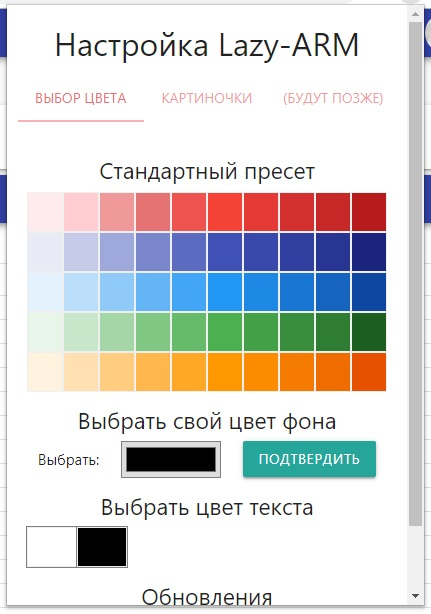
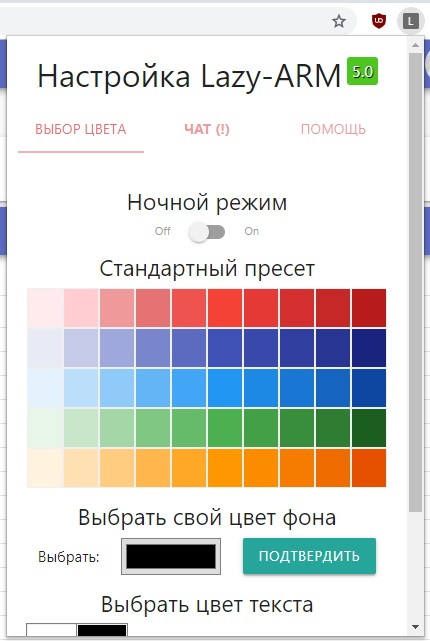
upd 5

diff --git a/popup.html b/popup.html
@@ -11,30 +11,33 @@
 
    <div id="popup-wrapper">
 
-      <h4>Настройка Lazy-ARM (v4.1)</h4>
+      <div style="display: flex; align-items: center; justify-content: center;">
+         <h4>Настройка Lazy-ARM</h4> <span
+            style="font-size: 16px; background: #4dc71f; color: #fff; padding: 2px 5px; margin-left: 5px; border-radius: 3px; text-shadow: 1px 1px 1px black;">5.0</span>
+      </div>
 
       <div class="row">
          <div class="col s12">
             <ul class="tabs">
                <li class="tab col s3"><a href="#test1" class="active">Выбор цвета</a></li>
-               <li class="tab col s3"><a href="#test2">Changelog</a></li>
+               <li class="tab col s3"><a href="#test2"><b>Чат (!)</b></a></li>
                <li class="tab col s3"><a href="#test3">Помощь</a></li>
             </ul>
          </div>
 
          <div id="test1" class="col s12" style="padding: 20px;">
-            
+
             <h5>Ночной режим</h5>
             <div class="switch" style="display: flex; justify-content: center;">
                <label>
-                 Off
-                 <input type="checkbox" id="night">
-                 <span class="lever"></span>
-                 On
+                  Off
+                  <input type="checkbox" id="night">
+                  <span class="lever"></span>
+                  On
                </label>
 
 
-             </div>
+            </div>
 
             <h5>Стандартный пресет</h5>
             <div class="theme_color_table">
@@ -113,12 +116,27 @@
             </div>
 
             <h5>Обновления</h5>
-            <a href="https://github.com/JustMonk/chrome-lazy-arm" target="_blank">github.com/JustMonk/chrome-lazy-arm</a>
+            <a href="https://github.com/JustMonk/chrome-lazy-arm"
+               target="_blank">github.com/JustMonk/chrome-lazy-arm</a>
 
          </div>
 
-         <div id="test2" class="col s12">ночной режим добавлен</div>
-         <div id="test3" class="col s12">1) Если по нажатию ничего не происходит - проверь адрес админки, он должен быть /cc-agent/, с тестовой версией /сс-agent-test/ расширение не работает</div>
+         <div id="test2" class="col s12">
+            <iframe src="https://justmonk.github.io/react-firebase-chat-widget/"
+               style="width: 100%; height: 460px; border: none;">
+               Ваш браузер не поддерживает встроенные фреймы!
+            </iframe>
+         </div>
+         <div id="test3" class="col s12" style="padding: 18px;">1) Если по нажатию ничего не происходит - проверь адрес
+            админки, он должен быть
+            /cc-agent/, с тестовой версией /сс-agent-test/ расширение не работает
+            <br>
+            2) Автообновлений нет (хром запрещает приватным расширениям обновляться), поэтому загрузить можно только руками
+            <br>
+            3) Сейчас особой пользы расширение не несет, а весь функционал аналитики рано или поздно и так добавят (ну кроме темной темы мб)
+            <br>
+            4) Последняя версия всегда доступна в репозитории <a href="https://github.com/JustMonk/chrome-lazy-arm">https://github.com/JustMonk/chrome-lazy-arm</a>
+         </div>
       </div>
 
    </div>

diff --git a/contentScript.js b/contentScript.js
@@ -140,33 +140,49 @@ chrome.runtime.onMessage.addListener(function (request, sender, sendResponse) {
 });
 
 
-//куда вставляем
+//пушим выше шапки
 let targetNode = document.getElementsByTagName('main')[0].lastChild;
+//внутрь флекс контейнера
+let infoWrapper = document.createElement('div');
+infoWrapper.id = 'info-wrapper';
+targetNode.insertAdjacentElement('afterbegin', infoWrapper);
 
-//наш контейнер "бездельников"
+//контейнер "бездельников"
 let lazy = document.createElement('div');
-lazy.id = 'lazy-wrapper'
+lazy.id = 'lazy-wrapper';
 lazy.innerHTML = 'Свободно операторов: ';
-
 let lazyCounter = document.createElement('span');
 lazyCounter.id = 'lazy-counter';
-
 lazy.appendChild(lazyCounter);
+infoWrapper.insertAdjacentElement('beforeend', lazy);
 
-targetNode.insertAdjacentElement('afterbegin', lazy);
+//контейнер очередей
+let queue = document.createElement('div');
+queue.id = 'queue-wrapper';
+queue.innerHTML = 'В очереди: ';
+let queueCounter = document.createElement('span');
+queueCounter.id = 'queue-counter';
+queue.appendChild(queueCounter);
+infoWrapper.insertAdjacentElement('beforeend', queue);
 
 setInterval(() => {
    let tds = document.querySelectorAll('main td span');
+   let queueSpans = document.querySelectorAll('main > :last-child > :last-child > :first-child span');
+
    let counter = 0;
+
+   //свободных
    tds.forEach(val => {
-      if (val.innerHTML == 'ожидание') {
-         counter++;
-         //val.style.color = '#000'
-      }
-      /*else if (val == val.parentElement.children[4]) {
-         val.style.color = '#5f5fc4';
-      }*/ //больше не нужно, уже реализовано
+      if (val.innerHTML == 'ожидание') counter++;
    })
    lazyCounter.innerHTML = counter;
+   
+   //в очереди
+   counter = 0;
+   queueSpans.forEach(val => {
+      if (val.title == 'Вызовов в очередях') counter++;
+   })
+   queueCounter.innerHTML = counter;
+
 }, 1000)
 

diff --git a/popup.js b/popup.js
@@ -20,6 +20,7 @@ window.onload = function () {
 
 document.addEventListener('click', function (e) {
    if (e.target.tagName != 'A') return;
+   e.preventDefault();
 
    if (e.target.className == 'theme_color') {
       //передаем message в contentScript

diff --git a/armStyle.css b/armStyle.css
@@ -5,3 +5,20 @@ header {
 header span {
    color: #fff;
 }
+
+#info-wrapper {
+   display: flex;
+   font-size: 17px;
+}
+
+#info-wrapper span {
+   /*font-weight: bold;*/
+}
+
+#lazy-wrapper {
+   width: 240px;
+}
+
+#queue-wrapper {
+   width: 150px;
+}
